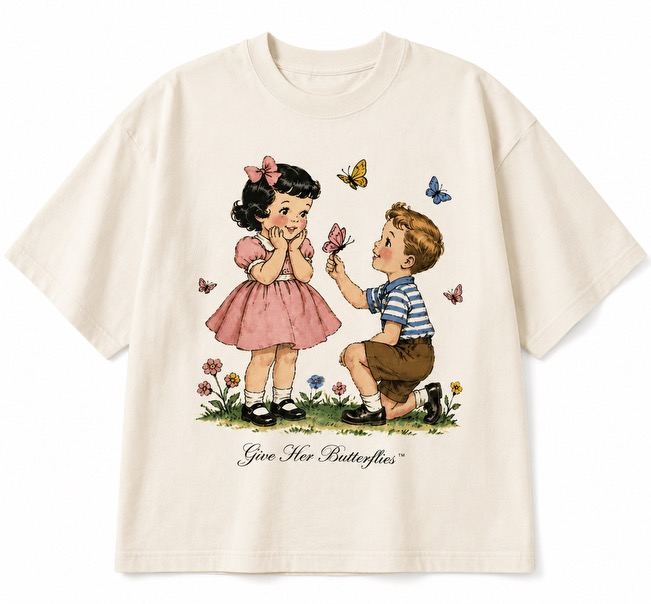
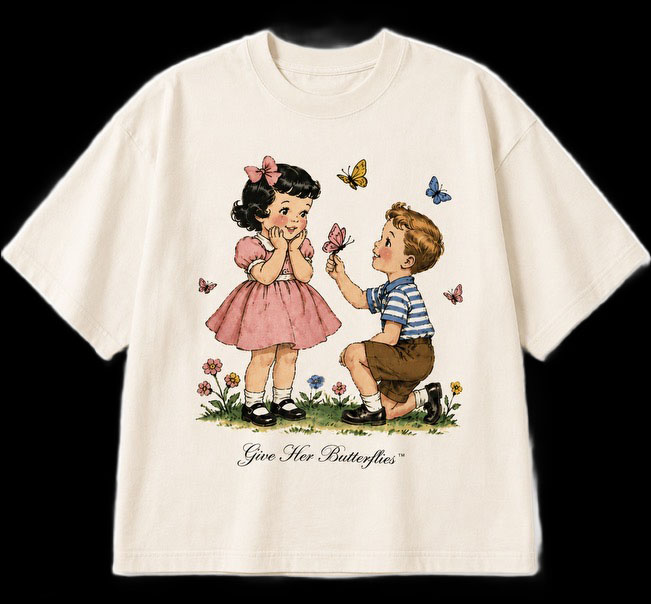
Update dark chrome product drop

diff --git a/src/app/globals.css b/src/app/globals.css
@@ -1,8 +1,8 @@
 @import "tailwindcss";
 
 :root {
-  --background: #ffffff;
-  --foreground: #000000;
+  --background: #000000;
+  --foreground: #ffffff;
 }
 
 @theme inline {
@@ -16,15 +16,15 @@
 }
 
 html {
-  background: #ffffff;
-  color: #000000;
+  background: #000000;
+  color: #ffffff;
   scroll-behavior: smooth;
 }
 
 body {
   min-height: 100vh;
-  background: #ffffff;
-  color: #000000;
+  background: #000000;
+  color: #ffffff;
   font-family: "Helvetica Neue", Arial, ui-sans-serif, system-ui, sans-serif;
   text-rendering: geometricPrecision;
 }
@@ -61,6 +61,34 @@ input {
 
 .quiet-action:active {
   transform: translateY(0);
+}
+
+.chrome-wordmark {
+  color: transparent;
+  background:
+    linear-gradient(
+      104deg,
+      #41454d 0%,
+      #f4f4f4 9%,
+      #ffffff 16%,
+      #c7c9ce 27%,
+      #5b6069 39%,
+      #f4f4f4 52%,
+      #ffffff 60%,
+      #41454d 71%,
+      #c7c9ce 84%,
+      #f4f4f4 100%
+    );
+  background-size: 240% 100%;
+  background-clip: text;
+  -webkit-background-clip: text;
+  text-shadow:
+    0.012em 0 rgba(255, 255, 255, 0.48),
+    -0.012em 0 rgba(65, 69, 77, 0.82),
+    0 0.018em rgba(199, 201, 206, 0.34),
+    0 -0.018em rgba(0, 0, 0, 0.62);
+  filter: drop-shadow(0 0 0.018em rgba(255, 255, 255, 0.34));
+  animation: chrome-sheen 7s linear infinite;
 }
 
 .product-card-reveal {
@@ -117,6 +145,15 @@ input {
   }
 }
 
+@keyframes chrome-sheen {
+  from {
+    background-position: 0% 50%;
+  }
+  to {
+    background-position: 220% 50%;
+  }
+}
+
 @media (prefers-reduced-motion: reduce) {
   html {
     scroll-behavior: auto;
@@ -126,7 +163,8 @@ input {
   .fade-up,
   .product-card-reveal,
   .detail-reveal,
-  .waitlist-reveal {
+  .waitlist-reveal,
+  .chrome-wordmark {
     animation: none;
   }
 

diff --git a/src/components/ChromeButterflyLogo.tsx b/src/components/ChromeButterflyLogo.tsx
@@ -59,7 +59,16 @@ export function ChromeButterflyLogo() {
     const camera = new THREE.PerspectiveCamera(31, 1, 0.1, 100);
     camera.position.set(0, -0.15, 13);
 
-    const renderer = new THREE.WebGLRenderer({ alpha: true, antialias: true });
+    const testCanvas = document.createElement("canvas");
+    const hasWebGL = Boolean(testCanvas.getContext("webgl2") ?? testCanvas.getContext("webgl"));
+    if (!hasWebGL) return;
+
+    let renderer: THREE.WebGLRenderer;
+    try {
+      renderer = new THREE.WebGLRenderer({ alpha: true, antialias: true });
+    } catch {
+      return;
+    }
     renderer.setPixelRatio(Math.min(window.devicePixelRatio, 2));
     renderer.setClearColor(0xffffff, 0);
     renderer.outputColorSpace = THREE.SRGBColorSpace;

diff --git a/src/components/Footer.tsx b/src/components/Footer.tsx
@@ -1,7 +1,7 @@
 export function Footer() {
   return (
-    <footer className="border-t border-black/10 bg-white">
-      <div className="mx-auto flex max-w-[1800px] flex-col gap-5 px-4 py-8 text-sm font-semibold tracking-normal text-black sm:px-6 md:flex-row md:items-center md:justify-between md:px-8 lg:px-10">
+    <footer className="border-t border-white/15 bg-black">
+      <div className="mx-auto flex max-w-[1800px] flex-col gap-5 px-4 py-8 text-sm font-semibold tracking-normal text-white sm:px-6 md:flex-row md:items-center md:justify-between md:px-8 lg:px-10">
         <p>© 2025 Butterflies.</p>
         <nav aria-label="Footer navigation">
           <ul className="flex flex-wrap gap-6">

diff --git a/src/components/ProductCard.tsx b/src/components/ProductCard.tsx
@@ -12,12 +12,12 @@ export function ProductCard({ product, index }: ProductCardProps) {
 
   return (
     <article
-      className="product-card-reveal group bg-white"
+      className="product-card-reveal group bg-transparent"
       style={{ "--reveal-delay": `${index * 90}ms` } as React.CSSProperties}
     >
       <Link
         href={productHref}
-        className="relative block aspect-[4/5] w-full overflow-hidden bg-white"
+        className="relative block aspect-[4/5] w-full overflow-hidden bg-black"
         aria-label={`View details for ${product.name}`}
       >
         <Image

diff --git a/src/components/ProductGrid.tsx b/src/components/ProductGrid.tsx
@@ -9,14 +9,14 @@ type ProductGridProps = {
 
 export function ProductGrid({ products }: ProductGridProps) {
   return (
-    <section id="drop" className="relative overflow-x-clip bg-white py-10 sm:py-16">
+    <section id="drop" className="relative overflow-x-clip bg-black py-10 sm:py-16">
       <ChromeButterflyLogo />
       <div className="mx-auto grid max-w-[1800px] grid-cols-[clamp(9rem,37vw,17rem)_minmax(0,1fr)] gap-3 px-3 pt-[40vh] sm:gap-6 sm:px-6 md:grid-cols-[clamp(10rem,20vw,20rem)_minmax(0,1fr)] md:px-8 md:pt-[30vh] lg:px-10">
         <div className="flex min-h-full justify-center">
           <Link
             href="/"
             aria-label="Butterflies home"
-            className="-mt-6 self-start text-[clamp(10rem,20vh,13rem)] font-black leading-[0.78] tracking-normal text-black [writing-mode:vertical-rl]"
+            className="chrome-wordmark -mt-6 self-start text-[clamp(10rem,20vh,13rem)] font-black leading-[0.78] tracking-normal [writing-mode:vertical-rl]"
           >
             Butterflies.
           </Link>

diff --git a/src/data/products.ts b/src/data/products.ts
@@ -36,7 +36,7 @@ export const products: Product[] = [
       "A future footwear piece reserved for the full Butterflies drop system.",
     priceLabel: "Price coming soon",
     image: "/images/butterflies-slides.jpg",
-    alt: "Black Butterflies slides with white wordmark on a white background.",
+    alt: "Black Butterflies slides with white wordmark on a black background.",
     sizes: ["6", "7", "8", "9", "10", "11", "12"],
   },
 ];